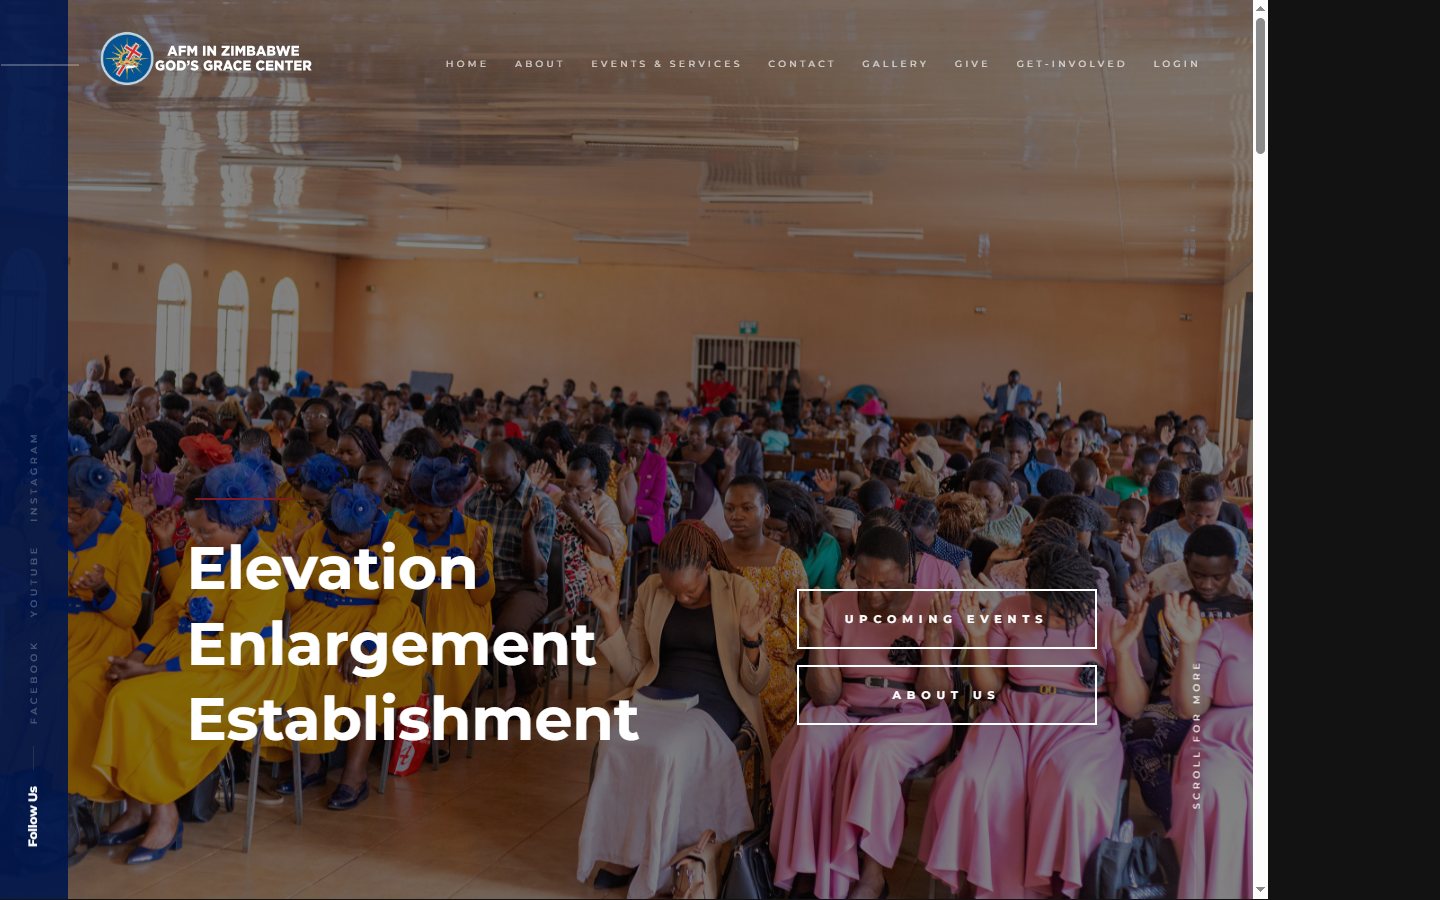
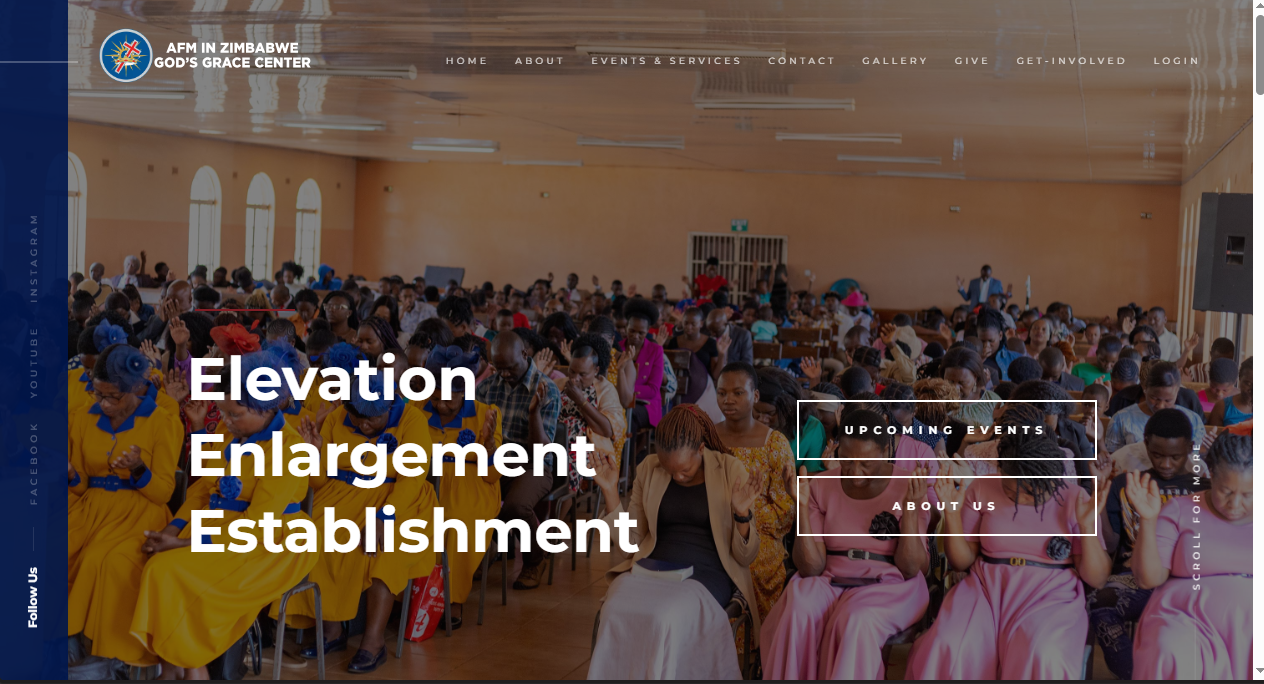
Pics fixed

diff --git a/css/studio.css b/css/studio.css
@@ -1,5 +1,7 @@
 :root{--blue:#123f8c;--blue-dark:#0d2f73;--ink:#172033;--muted:#667085;--line:#d9e2f2;--paper:#fff;--soft:#eef3fb;--serif:Georgia,"Times New Roman",serif;--sans:Arial,sans-serif}
-*{box-sizing:border-box}html{scroll-behavior:smooth;scroll-padding-top:82px}body{margin:0;background:var(--paper);color:var(--ink);font-family:var(--sans);font-size:15px;line-height:1.6}a{color:inherit;text-decoration:none}img{max-width:100%}.site-header{position:sticky;z-index:5;top:0;display:flex;align-items:center;justify-content:space-between;gap:25px;min-height:82px;padding:12px clamp(20px,7vw,100px);background:rgba(255,255,255,.96);border-bottom:1px solid var(--line);backdrop-filter:blur(12px)}.brand-name{display:flex;flex-direction:column;color:var(--blue-dark);font-family:var(--serif);font-size:22px;line-height:1}.brand-name small{margin-top:6px;color:var(--blue);font-family:var(--sans);font-size:8px;font-weight:700;letter-spacing:.12em;text-transform:uppercase}.main-nav{display:flex;gap:clamp(15px,2.4vw,34px);font-size:12px;color:#344054}.main-nav a:hover,.text-link:hover,.contact-details a:hover{color:var(--blue)}.header-cta,.button{display:inline-flex;align-items:center;justify-content:center;gap:14px;font-size:11px;font-weight:700}.header-cta{color:var(--blue)}.hero{display:grid;grid-template-columns:1fr;align-items:center;min-height:640px;padding:100px clamp(25px,10vw,145px);background:linear-gradient(120deg,#fff 0%,#eef3fb 70%,#e2ebfb 100%);border-bottom:1px solid var(--line)}.hero-copy{max-width:780px}.eyebrow{margin:0 0 17px;color:var(--blue);font-size:10px;font-weight:700;letter-spacing:.2em}.hero h1,.section-heading h2,.about-copy h2,.cta-section h2{margin:0;color:var(--blue-dark);font-family:var(--serif);font-size:clamp(58px,8vw,112px);font-weight:400;letter-spacing:-.06em;line-height:.95}.hero h1 em,.section-heading h2 em,.about-copy h2 em,.cta-section h2 em{color:#2f6fd3;font-style:italic}.hero-lead{max-width:610px;margin:30px 0;color:#475467;font-size:16px;line-height:1.8}.hero-actions{display:flex;flex-wrap:wrap;gap:12px}.button{min-height:48px;padding:0 22px}.button-primary{background:var(--blue);color:#fff}.button-primary:hover{background:var(--blue-dark)}.button-outline{border:1px solid var(--blue);color:var(--blue)}.hero-note{margin-top:42px;color:var(--blue);font-family:var(--serif);font-style:italic}.hero-mark{align-self:stretch;display:flex;flex-direction:column;justify-content:space-between;padding:15px 0 15px 35px;border-left:1px solid var(--line);color:var(--blue)}.hero-mark span{font-size:12px}.hero-mark strong{font-size:10px;letter-spacing:.18em;line-height:1.8}.intro-strip{padding:42px clamp(25px,10vw,145px);background:var(--blue);color:white}.intro-strip p{max-width:720px;margin:0;font-family:var(--serif);font-size:clamp(21px,2.5vw,30px);line-height:1.4}.section{padding:120px clamp(22px,9vw,135px)}.section-heading{margin:0 auto 80px;max-width:1050px}.section-heading h2,.about-copy h2,.cta-section h2{font-size:clamp(42px,5.5vw,75px)}.service-grid{display:grid;grid-template-columns:repeat(3,1fr);gap:20px;max-width:1050px;margin:auto}.service-card{padding:30px 25px;border:1px solid var(--line);background:#fff}.service-number,.portfolio-copy>span{color:var(--blue);font-size:10px;font-weight:700;letter-spacing:.16em}.service-card h3{margin:48px 0 13px;font-family:var(--serif);font-size:26px;font-weight:400;line-height:1.15}.service-card p,.service-card li{color:var(--muted);font-size:13px}.service-card ul{margin:20px 0 0;padding-left:17px}.portfolio-section{background:#f7f9fc}.section-heading-wide{display:flex;justify-content:space-between;align-items:end;gap:30px}.section-heading-wide>p{max-width:330px;margin:0;color:var(--muted);font-size:13px}.portfolio-list{max-width:1100px;margin:auto}.portfolio-item{display:grid;grid-template-columns:minmax(0,1.45fr) minmax(250px,.75fr);align-items:center;gap:clamp(35px,7vw,105px);padding-bottom:105px}.portfolio-item+.portfolio-item{padding-top:105px;border-top:1px solid var(--line)}.portfolio-item--reverse{grid-template-columns:minmax(250px,.75fr) minmax(0,1.45fr)}.portfolio-item--reverse .portfolio-media{order:2}.portfolio-item--reverse .portfolio-copy{order:1}.portfolio-media{display:block;overflow:hidden;background:var(--soft);box-shadow:0 18px 45px rgba(18,63,140,.12)}.portfolio-media img{display:block;width:100%;transition:transform .4s ease,filter .4s ease}.portfolio-media:hover img{transform:scale(1.02);filter:brightness(.94)}.portfolio-copy h3{margin:15px 0;color:var(--ink);font-family:var(--serif);font-size:clamp(25px,3vw,38px);font-weight:400;line-height:1.1}.portfolio-copy h3 a:hover{color:var(--blue)}.portfolio-copy p{margin:0 0 23px;color:var(--muted);font-size:13px;line-height:1.85}.text-link{padding-bottom:5px;border-bottom:1px solid var(--blue);color:var(--blue);font-size:11px;font-weight:700}.profile-header{max-width:1100px;margin:24px auto 0;overflow:hidden;border:1px solid var(--line);border-radius:10px;background:#fff;box-shadow:0 8px 25px rgba(18,63,140,.08)}.profile-cover{height:220px;overflow:hidden;background:#091f4b}.profile-cover img{display:block;width:100%;height:100%;object-fit:cover;object-position:center}.profile-summary{display:flex;position:relative;max-width:1100px;margin:0 auto;padding:0 25px 35px}.profile-avatar{width:170px;height:170px;flex:0 0 170px;margin-top:-82px;object-fit:cover;object-position:center 18%;border:6px solid #fff;border-radius:50%;box-shadow:0 8px 24px rgba(18,63,140,.2)}.profile-details{padding:26px 0 0 28px}.profile-details .eyebrow{margin-bottom:8px}.profile-details h1{margin:0;color:var(--blue-dark);font-family:var(--serif);font-size:clamp(34px,4vw,52px);font-weight:400;letter-spacing:-.04em;line-height:1}.profile-headline{max-width:620px;margin:12px 0 5px;color:var(--ink);font-size:16px}.profile-location{margin:0;color:var(--muted);font-size:12px}.profile-location a{color:var(--blue);font-weight:700}.profile-actions{display:flex;gap:10px;margin-top:20px}.hero-profile{display:block;width:180px;height:220px;margin:0 0 22px;object-fit:cover;object-position:center 20%;border:5px solid #fff;box-shadow:0 12px 30px rgba(18,63,140,.18)}.about-section{display:grid;grid-template-columns:1fr 1fr;gap:80px;max-width:1200px;margin:auto}.about-banner{width:100%;margin-bottom:30px;overflow:hidden;background:#091f4b}.about-banner img{display:block;width:100%;height:auto}.about-copy>p:not(.eyebrow){max-width:500px;margin:27px 0;color:var(--muted);font-size:15px;line-height:1.85}.snapshot{align-self:end;padding:30px;background:var(--soft)}.snapshot ul{margin:20px 0 0;padding-left:18px;color:var(--muted);font-size:13px;line-height:2}.cta-section{padding:120px 25px;text-align:center;background:var(--blue-dark);color:#fff}.cta-section .eyebrow,.cta-section h2{color:#fff}.cta-section h2 em{color:#b7d0ff}.cta-section>p:not(.eyebrow){max-width:460px;margin:25px auto;color:#dce8ff;font-size:14px}.contact-details{display:flex;justify-content:center;flex-wrap:wrap;gap:25px;margin-top:55px;color:#dce8ff;font-size:12px}.site-footer{display:flex;align-items:center;justify-content:space-between;gap:25px;padding:25px clamp(22px,8vw,120px);background:#091f4b;color:#dce8ff}.footer-brand{display:flex;flex-direction:column;color:#fff}.footer-brand strong{font-family:var(--serif);font-size:20px;font-weight:400}.footer-brand small{color:#b7d0ff;font-size:8px;font-weight:700;letter-spacing:.12em;text-transform:uppercase}.site-footer p{margin:0;font-family:var(--serif);font-style:italic}.site-footer small{font-size:10px}
-@media(max-width:800px){.site-header{flex-wrap:wrap}.main-nav{order:3;width:100%;justify-content:center;overflow:auto;padding-top:5px}.header-cta{margin-left:auto}.profile-header{margin:12px 12px 0}.profile-cover{height:170px}.profile-summary{display:block;padding:0 20px 30px}.profile-avatar{width:135px;height:135px;margin-top:-68px}.profile-details{padding:18px 0 0}.profile-details h1{font-size:42px}.hero{grid-template-columns:1fr;min-height:auto;padding:80px 25px}.hero-mark{display:flex;align-items:flex-start;margin-top:35px;padding:0;border-left:0}.hero-profile{width:150px;height:180px}.service-grid,.about-section{grid-template-columns:1fr}.section{padding:80px 20px}.section-heading-wide{display:block}.section-heading-wide>p{margin-top:20px}.portfolio-item,.portfolio-item--reverse{display:flex;flex-direction:column;align-items:stretch;gap:28px;padding-bottom:65px}.portfolio-item+.portfolio-item{padding-top:65px}.portfolio-item--reverse .portfolio-media,.portfolio-item--reverse .portfolio-copy{order:initial}.portfolio-copy{max-width:none}.site-footer{flex-direction:column;text-align:center}}
+*{box-sizing:border-box}html{scroll-behavior:smooth;scroll-padding-top:82px}body{margin:0;background:var(--paper);color:var(--ink);font-family:var(--sans);font-size:15px;line-height:1.6}a{color:inherit;text-decoration:none}img{max-width:100%}.site-header{position:sticky;z-index:5;top:0;display:flex;align-items:center;justify-content:space-between;gap:25px;min-height:82px;padding:12px clamp(20px,7vw,100px);background:rgba(255,255,255,.96);border-bottom:1px solid var(--line);backdrop-filter:blur(12px)}.brand-name{display:flex;flex-direction:column;color:var(--blue-dark);font-family:var(--serif);font-size:22px;line-height:1}.brand-name small{margin-top:6px;color:var(--blue);font-family:var(--sans);font-size:8px;font-weight:700;letter-spacing:.12em;text-transform:uppercase}.main-nav{display:flex;gap:clamp(15px,2.4vw,34px);font-size:12px;color:#344054}.main-nav a:hover,.text-link:hover,.contact-details a:hover{color:var(--blue)}.header-cta,.button{display:inline-flex;align-items:center;justify-content:center;gap:14px;font-size:11px;font-weight:700}.header-cta{color:var(--blue)}.hero{display:grid;grid-template-columns:1fr;align-items:center;min-height:640px;padding:100px clamp(25px,10vw,145px);background:linear-gradient(120deg,#fff 0%,#eef3fb 70%,#e2ebfb 100%);border-bottom:1px solid var(--line)}.hero-copy{max-width:780px;margin:0 auto;text-align:center}.eyebrow{margin:0 0 17px;color:var(--blue);font-size:10px;font-weight:700;letter-spacing:.2em}.hero h1,.section-heading h2,.about-copy h2,.cta-section h2{margin:0;color:var(--blue-dark);font-family:var(--serif);font-size:clamp(58px,8vw,112px);font-weight:400;letter-spacing:-.06em;line-height:.95}.hero h1 em,.section-heading h2 em,.about-copy h2 em,.cta-section h2 em{color:#2f6fd3;font-style:italic}.hero-lead{max-width:610px;margin:30px auto;color:#475467;font-size:16px;line-height:1.8}.hero-actions{display:flex;justify-content:center;flex-wrap:wrap;gap:12px}.button{min-height:48px;padding:0 22px}.button-primary{background:var(--blue);color:#fff}.button-primary:hover{background:var(--blue-dark)}.button-outline{border:1px solid var(--blue);color:var(--blue)}.hero-note{margin-top:42px;color:var(--blue);font-family:var(--serif);font-style:italic}.hero-mark{align-self:stretch;display:flex;flex-direction:column;justify-content:space-between;padding:15px 0 15px 35px;border-left:1px solid var(--line);color:var(--blue)}.hero-mark span{font-size:12px}.hero-mark strong{font-size:10px;letter-spacing:.18em;line-height:1.8}.intro-strip{padding:42px clamp(25px,10vw,145px);background:var(--blue);color:white}.intro-strip p{max-width:720px;margin:0;font-family:var(--serif);font-size:clamp(21px,2.5vw,30px);line-height:1.4}.section{padding:120px clamp(22px,9vw,135px)}.section-heading{margin:0 auto 80px;max-width:1050px}.section-heading h2,.about-copy h2,.cta-section h2{font-size:clamp(42px,5.5vw,75px)}.service-grid{display:grid;grid-template-columns:repeat(3,1fr);gap:20px;max-width:1050px;margin:auto}.service-card{padding:30px 25px;border:1px solid var(--line);background:#fff}.service-number,.portfolio-copy>span{color:var(--blue);font-size:10px;font-weight:700;letter-spacing:.16em}.service-card h3{margin:48px 0 13px;font-family:var(--serif);font-size:26px;font-weight:400;line-height:1.15}.service-card p,.service-card li{color:var(--muted);font-size:13px}.service-card ul{margin:20px 0 0;padding-left:17px}.portfolio-section{background:#f7f9fc}.section-heading-wide{display:flex;justify-content:space-between;align-items:end;gap:30px}.section-heading-wide>p{max-width:330px;margin:0;color:var(--muted);font-size:13px}.portfolio-list{max-width:1100px;margin:auto}.portfolio-item{display:grid;grid-template-columns:minmax(0,1.45fr) minmax(250px,.75fr);align-items:center;gap:clamp(35px,7vw,105px);padding-bottom:105px}.portfolio-item+.portfolio-item{padding-top:105px;border-top:1px solid var(--line)}.portfolio-item--reverse{grid-template-columns:minmax(250px,.75fr) minmax(0,1.45fr)}.portfolio-item--reverse .portfolio-media{order:2}.portfolio-item--reverse .portfolio-copy{order:1}.portfolio-media{display:block;overflow:hidden;background:var(--soft);box-shadow:0 18px 45px rgba(18,63,140,.12)}.portfolio-media img{display:block;width:100%;transition:transform .4s ease,filter .4s ease}.portfolio-media:hover img{transform:scale(1.02);filter:brightness(.94)}.portfolio-copy h3{margin:15px 0;color:var(--ink);font-family:var(--serif);font-size:clamp(25px,3vw,38px);font-weight:400;line-height:1.1}.portfolio-copy h3 a:hover{color:var(--blue)}.portfolio-copy p{margin:0 0 23px;color:var(--muted);font-size:13px;line-height:1.85}.text-link{padding-bottom:5px;border-bottom:1px solid var(--blue);color:var(--blue);font-size:11px;font-weight:700}.profile-header{max-width:1100px;margin:24px auto 0;overflow:hidden;border:1px solid var(--line);border-radius:10px;background:#fff;box-shadow:0 8px 25px rgba(18,63,140,.08)}.profile-cover{height:220px;overflow:hidden;background:#091f4b}.profile-cover img{display:block;width:100%;height:100%;object-fit:cover;object-position:center}.profile-summary{display:flex;position:relative;max-width:1100px;margin:0 auto;padding:0 25px 35px}.profile-avatar{width:170px;height:170px;flex:0 0 170px;margin-top:-82px;object-fit:cover;object-position:center 18%;border:6px solid #fff;border-radius:50%;box-shadow:0 8px 24px rgba(18,63,140,.2)}.profile-details{padding:26px 0 0 28px}.profile-details .eyebrow{margin-bottom:8px}.profile-details h1{margin:0;color:var(--blue-dark);font-family:var(--serif);font-size:clamp(34px,4vw,52px);font-weight:400;letter-spacing:-.04em;line-height:1}.profile-headline{max-width:620px;margin:12px 0 5px;color:var(--ink);font-size:16px}.profile-location{margin:0;color:var(--muted);font-size:12px}.profile-location a{color:var(--blue);font-weight:700}.profile-actions{display:flex;gap:10px;margin-top:20px}.hero-profile{display:block;width:180px;height:220px;margin:0 0 22px;object-fit:cover;object-position:center 20%;border:5px solid #fff;box-shadow:0 12px 30px rgba(18,63,140,.18)}.about-section{display:grid;grid-template-columns:1fr 1fr;gap:80px;max-width:1200px;margin:auto}.about-banner{width:100%;margin-bottom:30px;overflow:hidden;background:#091f4b}.about-banner img{display:block;width:100%;height:auto}.about-copy>p:not(.eyebrow){max-width:500px;margin:27px 0;color:var(--muted);font-size:15px;line-height:1.85}.snapshot{align-self:end;padding:30px;background:var(--soft)}.snapshot ul{margin:20px 0 0;padding-left:18px;color:var(--muted);font-size:13px;line-height:2}.cta-section{padding:120px 25px;text-align:center;background:var(--blue-dark);color:#fff}.cta-section .eyebrow,.cta-section h2{color:#fff}.cta-section h2 em{color:#b7d0ff}.cta-section>p:not(.eyebrow){max-width:460px;margin:25px auto;color:#dce8ff;font-size:14px}.contact-details{display:flex;justify-content:center;flex-wrap:wrap;gap:25px;margin-top:55px;color:#dce8ff;font-size:12px}.site-footer{display:flex;align-items:center;justify-content:space-between;gap:25px;padding:25px clamp(22px,8vw,120px);background:#091f4b;color:#dce8ff}.footer-brand{display:flex;flex-direction:column;color:#fff}.footer-brand strong{font-family:var(--serif);font-size:20px;font-weight:400}.footer-brand small{color:#b7d0ff;font-size:8px;font-weight:700;letter-spacing:.12em;text-transform:uppercase}.site-footer p{margin:0;font-family:var(--serif);font-style:italic}.site-footer small{font-size:10px}
+.benefits-section{padding:110px clamp(22px,9vw,135px);background:#fff;border-top:1px solid var(--line);border-bottom:1px solid var(--line)}.benefits-heading{display:grid;grid-template-columns:minmax(0,1fr) minmax(260px,360px);align-items:end;gap:30px;margin-bottom:55px}.benefits-heading .eyebrow{grid-column:1/-1;margin-bottom:-15px}.benefits-heading h2{margin:0}.benefits-heading>p:last-child{margin:0;color:var(--muted);font-size:13px;line-height:1.8}.benefits-grid{display:grid;grid-template-columns:repeat(4,1fr);gap:18px;max-width:1100px;margin:auto}.benefits-grid article{padding:25px 20px;border-top:2px solid var(--blue)}.benefits-grid span{color:var(--blue);font-size:10px;font-weight:700;letter-spacing:.16em}.benefits-grid h3{margin:28px 0 9px;font-family:var(--serif);font-size:22px;font-weight:400}.benefits-grid p{margin:0;color:var(--muted);font-size:12px;line-height:1.8}
+@media(max-width:800px){.site-header{flex-wrap:wrap}.main-nav{order:3;width:100%;justify-content:center;overflow:auto;padding-top:5px}.header-cta{margin-left:auto}.profile-header{margin:12px 12px 0}.profile-cover{height:170px}.profile-summary{display:block;padding:0 20px 30px}.profile-avatar{width:135px;height:135px;margin-top:-68px}.profile-details{padding:18px 0 0}.profile-details h1{font-size:42px}.hero{grid-template-columns:1fr;min-height:auto;padding:80px 25px}.hero-mark{display:flex;align-items:flex-start;margin-top:35px;padding:0;border-left:0}.hero-profile{width:150px;height:180px}.service-grid,.about-section,.benefits-grid{grid-template-columns:1fr 1fr}.benefits-heading{display:block}.benefits-heading>p:last-child{margin-top:20px}.section{padding:80px 20px}.section-heading-wide{display:block}.section-heading-wide>p{margin-top:20px}.portfolio-item,.portfolio-item--reverse{display:flex;flex-direction:column;align-items:stretch;gap:28px;padding-bottom:65px}.portfolio-item+.portfolio-item{padding-top:65px}.portfolio-item--reverse .portfolio-media,.portfolio-item--reverse .portfolio-copy{order:initial}.portfolio-copy{max-width:none}.site-footer{flex-direction:column;text-align:center}}
 @media(max-width:480px){.brand-name{font-size:18px}.profile-cover{height:135px}.profile-avatar{width:112px;height:112px;margin-top:-56px;border-width:4px}.profile-details h1{font-size:36px}.profile-headline{font-size:14px}.profile-actions{align-items:stretch;flex-direction:column}.hero h1{font-size:54px}.hero-lead{font-size:14px}.hero-actions{align-items:stretch;flex-direction:column}.button{width:100%}.main-nav{gap:17px;font-size:11px}.contact-details{flex-direction:column;gap:12px}}
 .cv-content{max-width:1050px;margin:auto;padding:90px 25px 120px}.cv-content h1{margin:0 0 15px;color:var(--blue-dark);font-family:var(--serif);font-size:clamp(54px,7vw,88px);font-weight:400;letter-spacing:-.06em;line-height:1}.cv-content h1 em{color:#2f6fd3;font-style:italic}.cv-lead{margin:0 0 65px;color:var(--muted);font-size:14px}.cv-grid{display:grid;grid-template-columns:1.45fr .8fr;gap:85px}.cv-grid h2{margin:42px 0 13px;color:var(--blue);font-family:var(--serif);font-size:28px;font-weight:400}.cv-grid h2:first-child{margin-top:0}.cv-grid h3{margin:24px 0 4px;font-size:16px}.cv-grid p,.cv-grid li{color:var(--muted);font-size:13px;line-height:1.8}.cv-grid ul{padding-left:18px}.print-button{border:0;background:none;cursor:pointer}@media(max-width:800px){.cv-grid{grid-template-columns:1fr;gap:0}.cv-content{padding:65px 22px 85px}}@media print{.site-header,.site-footer{display:none}.cv-content{padding:0}.cv-content h1{font-size:46px}.cv-grid{gap:35px}.cv-grid h2{margin-top:25px}.cv-page{font-size:12px}}
+.intro-strip{text-align:center}.intro-strip p{margin-right:auto;margin-left:auto}

diff --git a/index.html b/index.html
@@ -61,8 +61,22 @@
             </div>
         </section>
 
+        <section class="benefits-section">
+            <div class="section-heading benefits-heading">
+                <p class="eyebrow">WHY GO LIVE?</p>
+                <h2>A digital presence<br>that works <em>for you.</em></h2>
+                <p>A well-built website or system is more than an online address. It gives your work a reliable place to be found, understood and experienced.</p>
+            </div>
+            <div class="benefits-grid">
+                <article><span>01</span><h3>Be easier to find</h3><p>Help customers, members and partners discover what you offer wherever they are.</p></article>
+                <article><span>02</span><h3>Build confidence</h3><p>Present your organisation clearly and professionally with information people can trust.</p></article>
+                <article><span>03</span><h3>Stay available</h3><p>Give people access to your services, updates, contacts and resources around the clock.</p></article>
+                <article><span>04</span><h3>Work more efficiently</h3><p>Use logins, dashboards, calendars, blogs and tailored tools to simplify everyday work.</p></article>
+            </div>
+        </section>
+
         <section class="section portfolio-section" id="portfolio">
-            <div class="section-heading section-heading-wide"><div><p class="eyebrow">SELECTED WORK</p><h2>Websites made to<br><em>be experienced.</em></h2></div><p>A selection of live websites and digital experiences created for organisations, businesses and communities.</p></div>
+            <div class="section-heading section-heading-wide"><div><p class="eyebrow">SELECTED WORK</p><h2>Digital systems made to<br><em>solve real needs.</em></h2></div><p>These are more than websites. They are requirement-driven digital systems and experiences, shaped around each organisation's needs with features such as dashboards, staff logins, calendars, blogs and other tailored functionality where required.</p></div>
             <div class="portfolio-list">
                 <article class="portfolio-item"><a class="portfolio-media" href="https://ggcweb.vercel.app" target="_blank" rel="noopener noreferrer"><img src="images/portfolio/gods-grace-centre.png" alt="God's Grace Centre website homepage"></a><div class="portfolio-copy"><span>01 · CLIENT / VOLUNTEER</span><h3><a href="https://ggcweb.vercel.app" target="_blank" rel="noopener noreferrer">God's Grace Centre</a></h3><p>A church website designed to communicate the church's identity, share information about services and events, and help visitors connect with the church community.</p><a class="text-link" href="https://ggcweb.vercel.app" target="_blank" rel="noopener noreferrer">Visit Website ↗</a></div></article>
                 <article class="portfolio-item portfolio-item--reverse"><a class="portfolio-media" href="https://millennial-tau.vercel.app" target="_blank" rel="noopener noreferrer"><img src="images/portfolio/millennial-academy.png" alt="Millennial Academy website homepage"></a><div class="portfolio-copy"><span>02 · CLIENT / VOLUNTEER</span><h3><a href="https://millennial-tau.vercel.app" target="_blank" rel="noopener noreferrer">Millennial Academy</a></h3><p>A school website presenting the academy's educational approach, curriculum, events and school community, with features that support communication and engagement.</p><a class="text-link" href="https://millennial-tau.vercel.app" target="_blank" rel="noopener noreferrer">Visit Website ↗</a></div></article>
